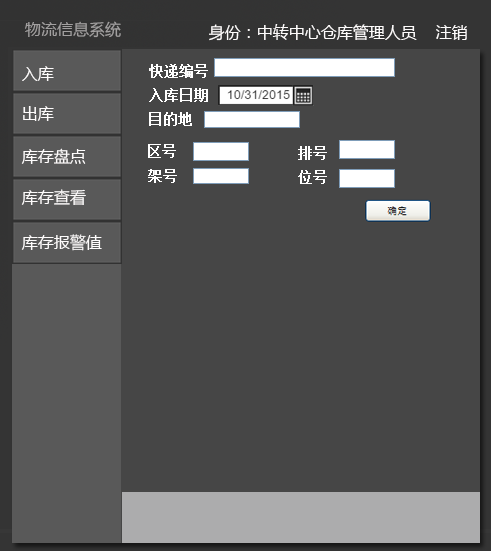
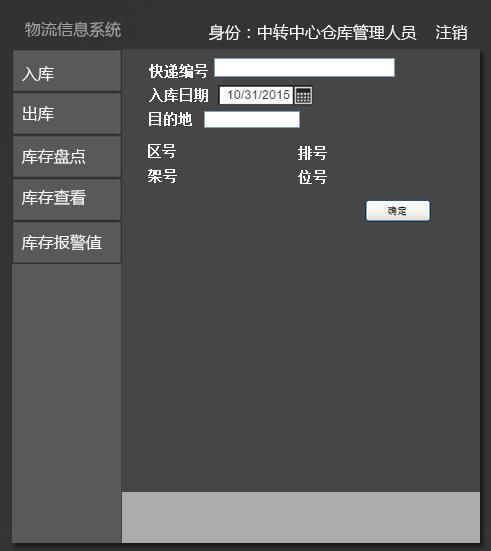
temp

Changed region(s): [[0.6721, 0.2468, 0.8248, 0.3394], [0.3666, 0.2468, 0.5193, 0.3394]]

diff --git a/ExpressSystem/client/src/main/java/nju/sec/yz/ExpressSystem/presentation/inventoryui/InventoryIn.java b/ExpressSystem/client/src/main/java/nju/sec/yz/ExpressSystem/presentation/inventoryui/InventoryIn.java
@@ -4,11 +4,15 @@ import java.awt.Graphics;
 import java.awt.Image;
 
 import javax.swing.ImageIcon;
+import javax.swing.JButton;
+import javax.swing.JComboBox;
+import javax.swing.JLabel;
 import javax.swing.JPanel;
 import javax.swing.JTextField;
 
 import nju.sec.yz.ExpressSystem.bl.inventorybl.InventoryController;
 import nju.sec.yz.ExpressSystem.blservice.inventoryBlService.InventoryBlService;
+import nju.sec.yz.ExpressSystem.presentation.DateChooser;
 import nju.sec.yz.ExpressSystem.presentation.controlerui.ClientControler;
 
 public class InventoryIn extends JPanel{
@@ -19,7 +23,15 @@ public class InventoryIn extends JPanel{
 	
 	
 	private JTextField barId;
-	private JTextField destination;
+	private JComboBox destination;
+	
+	private JComboBox block;
+	private JTextField row;
+	private JTextField shelf;
+	private JTextField positon;
+	
+	private JButton confirm;
+	private JLabel warning;
 	
 	
 	public InventoryIn(ClientControler maincontroler){
@@ -35,6 +47,35 @@ public class InventoryIn extends JPanel{
 		setVisible(true);
 		
 		InventoryButtonComponents ibc=new InventoryButtonComponents(maincontroler,this);
+		
+		
+		barId=new JTextField();
+		barId.setBounds(213, 59, 182, 18);
+		add(barId);
+		
+		DateChooser date =new DateChooser(this,213,82);
+		
+		String[] desti={};
+		destination=new JComboBox(desti);
+		destination.setBounds(202, 110, 98, 20);
+		add(destination);
+		
+		String[] blo={"航运区","铁运区","汽运区","机动区"};
+		block=new JComboBox(blo);
+		block.setBounds(193,142,58,19);
+		add(block);
+		
+		row=new JTextField();
+		row.setBounds(339, 142, 58, 19);
+		add(row);
+		
+		shelf=new JTextField();
+		shelf.setBounds(193, 168, 58, 19);
+		add(shelf);
+		
+		positon=new JTextField();
+		positon.setBounds(339, 168, 58, 19);
+		add(positon);
 		
 	}
 	

diff --git a/ExpressSystem/client/src/main/java/nju/sec/yz/ExpressSystem/presentation/transitui/TransitReceiptFlight.java b/ExpressSystem/client/src/main/java/nju/sec/yz/ExpressSystem/presentation/transitui/TransitReceiptFlight.java
@@ -148,8 +148,7 @@ public class TransitReceiptFlight extends JPanel{
 					for(int i=0;i<barId.getRowCount()-1;i++){
 						BarIdArray.add((String) barId.getValueAt(i, 1));
 					}
-					System.out.println(BarIdArray.get(3));
-				TransitSheetVO vo=new TransitSheetVO();
+					TransitSheetVO vo=new TransitSheetVO();
 					//destinationId项不存在，用null写入
 					TransitFlightInformation flightInf = new TransitFlightInformation(date.getTime(),
 							departure.getSelectedItem().toString(), destination.getSelectedItem().toString(),

diff --git a/ExpressSystem/client/src/main/java/nju/sec/yz/ExpressSystem/presentation/controlerui/ClientControler.java b/ExpressSystem/client/src/main/java/nju/sec/yz/ExpressSystem/presentation/controlerui/ClientControler.java
@@ -41,7 +41,7 @@ public class ClientControler{
 	JPanel transitMainPanel=new TransitMainUi(this,transitControler.tbc);
 	JPanel adminstraterMainPanel=new AdminstraterMainUiTest(this);
 	
-	public MainUi mainFrame=new MainUi(transitMainPanel);
+	public MainUi mainFrame=new MainUi(inventoryMainPanel);
 
 	public void showFrame()
 	{
